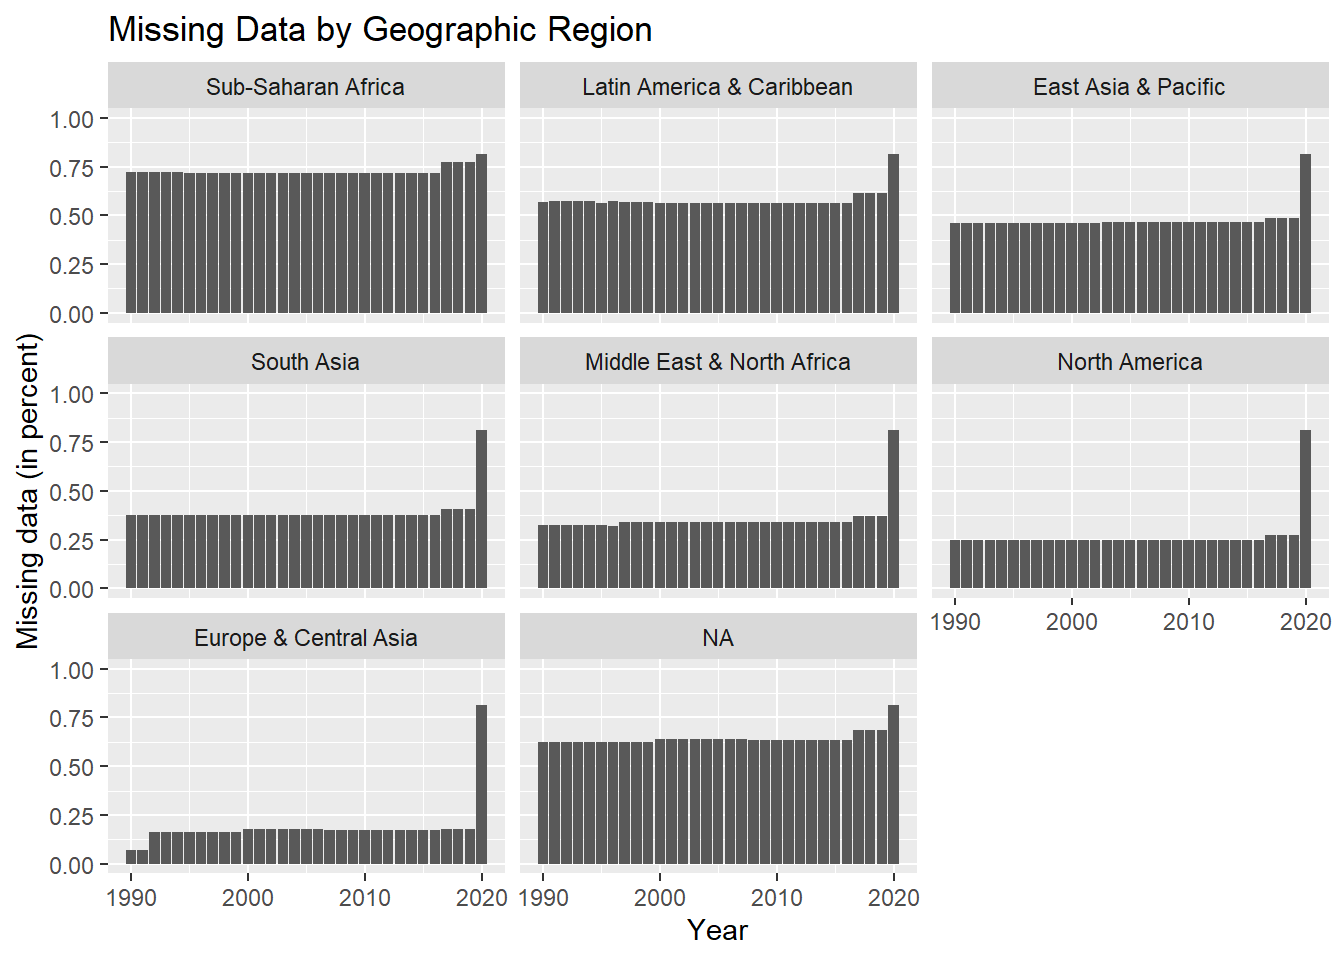
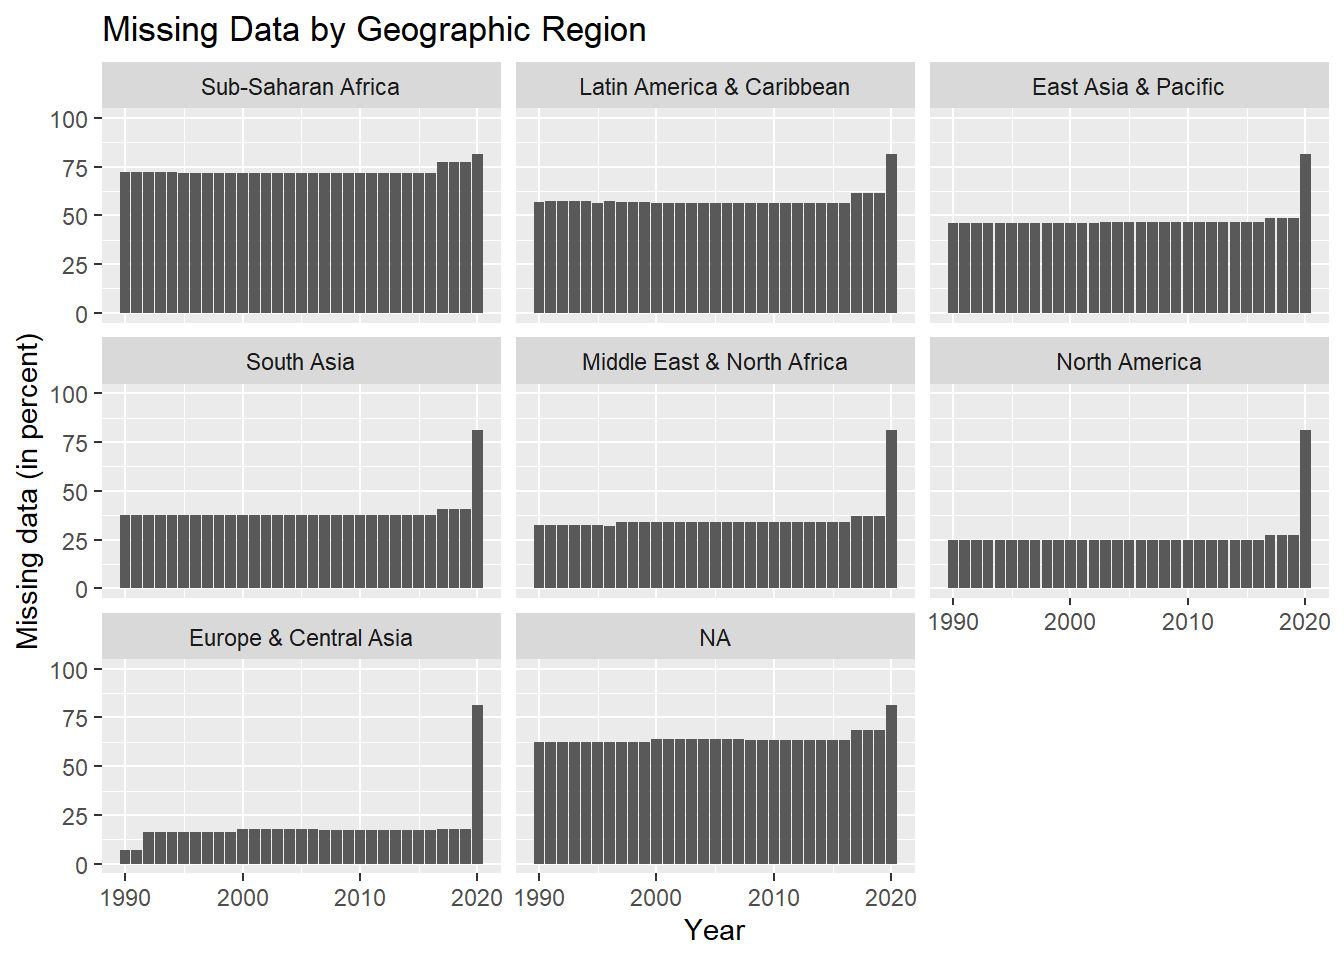
Corrected scale to percents for GDP on rendered bookdown.

diff --git a/docs/missing-values.html b/docs/missing-values.html
@@ -24,7 +24,7 @@
 <meta name="author" content="Antonin Vidon and Jannik Wiedenhaupt" />
 
 
-<meta name="date" content="2021-11-20" />
+<meta name="date" content="2021-11-22" />
 
   <meta name="viewport" content="width=device-width, initial-scale=1" />
   <meta name="apple-mobile-web-app-capable" content="yes" />
@@ -34,7 +34,7 @@
 <link rel="prev" href="data-transformation.html"/>
 <link rel="next" href="results.html"/>
 <script src="libs/header-attrs-2.11/header-attrs.js"></script>
-<script src="libs/jquery-3.5.1/jquery-3.5.1.min.js"></script>
+<script src="libs/jquery-3.6.0/jquery-3.6.0.min.js"></script>
 <script src="https://cdn.jsdelivr.net/npm/fuse.js@6.4.6/dist/fuse.min.js"></script>
 <link href="libs/gitbook-2.6.7/css/style.css" rel="stylesheet" />
 <link href="libs/gitbook-2.6.7/css/plugin-table.css" rel="stylesheet" />

diff --git a/docs/404.html b/docs/404.html
@@ -24,7 +24,7 @@
 <meta name="author" content="Antonin Vidon and Jannik Wiedenhaupt" />
 
 
-<meta name="date" content="2021-11-20" />
+<meta name="date" content="2021-11-22" />
 
   <meta name="viewport" content="width=device-width, initial-scale=1" />
   <meta name="apple-mobile-web-app-capable" content="yes" />
@@ -34,7 +34,7 @@
 
 
 <script src="libs/header-attrs-2.11/header-attrs.js"></script>
-<script src="libs/jquery-3.5.1/jquery-3.5.1.min.js"></script>
+<script src="libs/jquery-3.6.0/jquery-3.6.0.min.js"></script>
 <script src="https://cdn.jsdelivr.net/npm/fuse.js@6.4.6/dist/fuse.min.js"></script>
 <link href="libs/gitbook-2.6.7/css/style.css" rel="stylesheet" />
 <link href="libs/gitbook-2.6.7/css/plugin-table.css" rel="stylesheet" />
